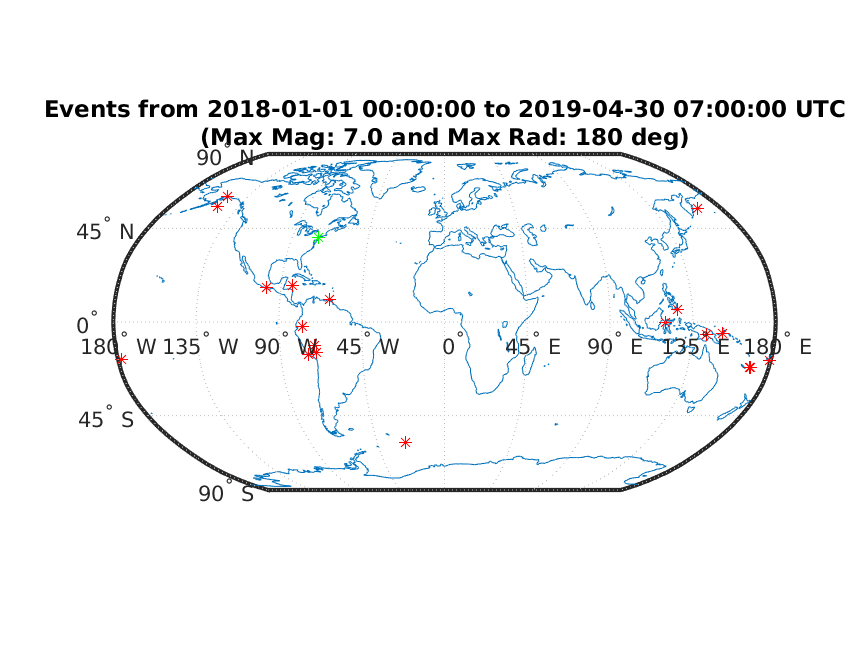
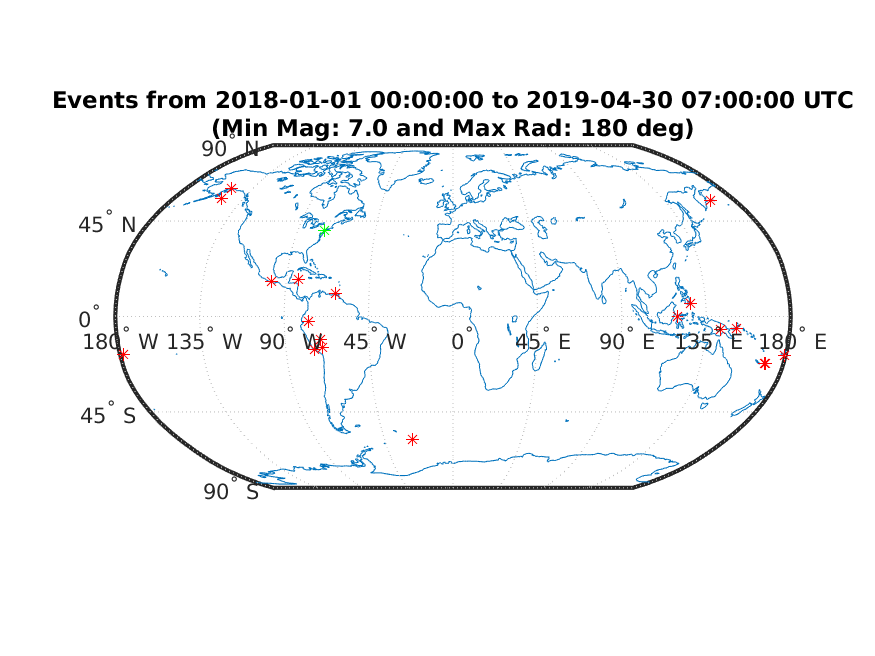
New Figures

diff --git a/plotseis.m b/plotseis.m
@@ -63,7 +63,7 @@ plot(epiDists,Pwave700,'b')
 plot(epiDists,Swave700,'r--')
 grid on
 title({sprintf('Seismic Activity HHZ from %s to %s UTC',startT,endT) ; ...
-    sprintf('(Max Mag: %.2f, Max Rad: %.0f deg, Filter: %.2f to %.2f, Depth: %.0f to %.0f km)',...
+    sprintf('(Min Mag: %.2f, Max Rad: %.0f deg, Filter: %.2f to %.2f, Depth: %.0f to %.0f km)',...
     minMag,maxRad,colo,cohi,depthMin,depthMax)})
 xlabel('Epicentral Distance (km)')
 ylabel('Time since start of Event (sec)')
@@ -71,7 +71,7 @@ ylim([0,len*60])
 m=max(max(seisData))+150;
 xlim([0,m])
 
-% saveas(fig,'~/Documents/MATLAB/PEI2019-dorisli/catalog_figures/seisDataMag7.png')
+saveas(fig,'~/Documents/MATLAB/PEI2019-dorisli/catalog_figures/seisDataMag7.png')
 
 % Optional outputs
 varns={fig};

diff --git a/getIris.m b/getIris.m
@@ -36,11 +36,11 @@ plotm(coastlat, coastlon);
 hold on
 plotm([eq.PreferredLatitude],[eq.PreferredLongitude],'r*');
 plotm(originLat,originLon,'g*');
-title({sprintf('Events from %s to %s UTC',startT,endT) ; sprintf('(Max Mag: %.1f and Max Rad: %.0f deg)',...
+title({sprintf('Events from %s to %s UTC',startT,endT) ; sprintf('(Min Mag: %.1f and Max Rad: %.0f deg)',...
     minMag,radcoord(3))})
 hold off
 
-% saveas(fig,'~/Documents/MATLAB/PEI2019-dorisli/catalog_figures/WorldMapEQMag7.png')
+saveas(fig,'~/Documents/MATLAB/PEI2019-dorisli/catalog_figures/WorldMapEQMag7.png')
 
 % Optional outputs
 varns={eq,fig};
